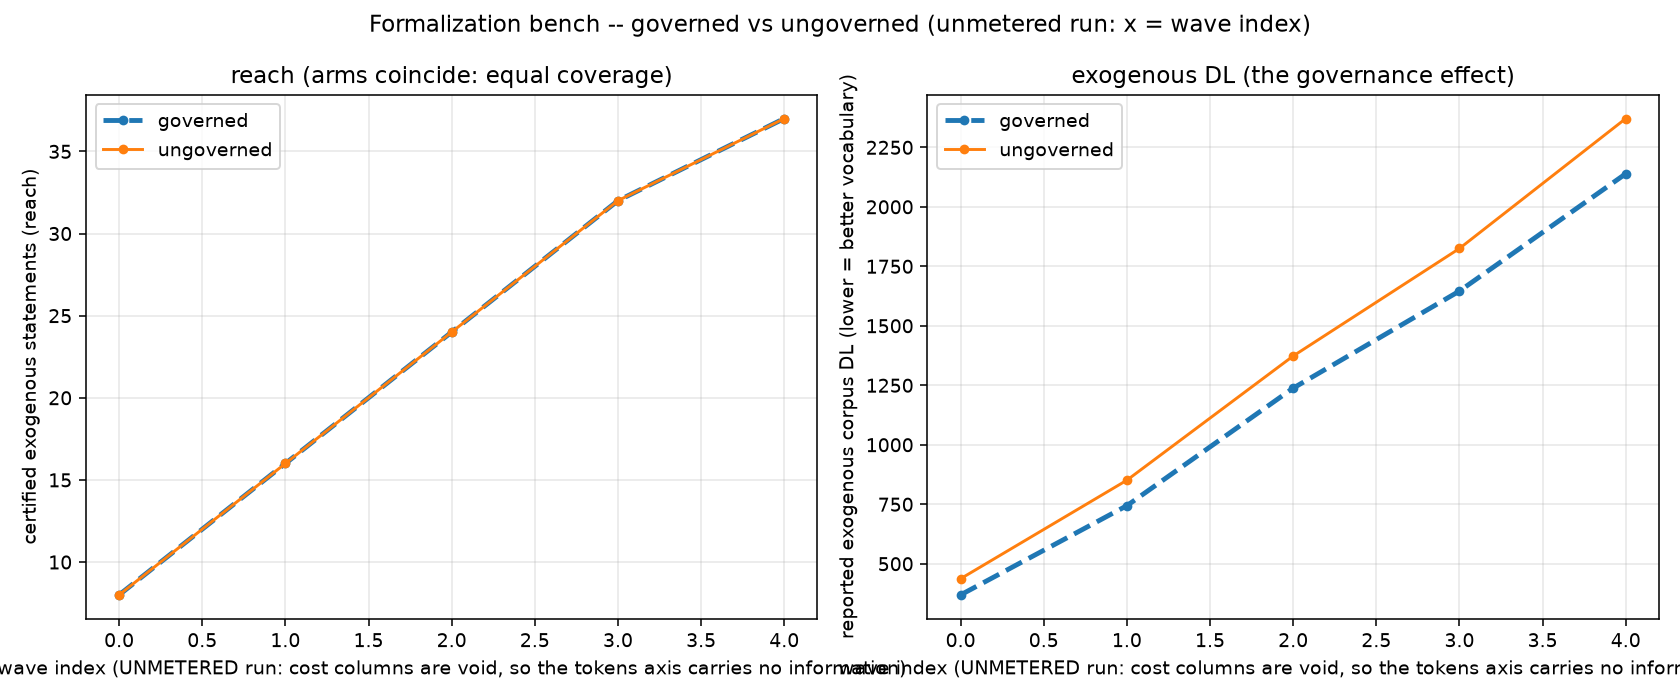
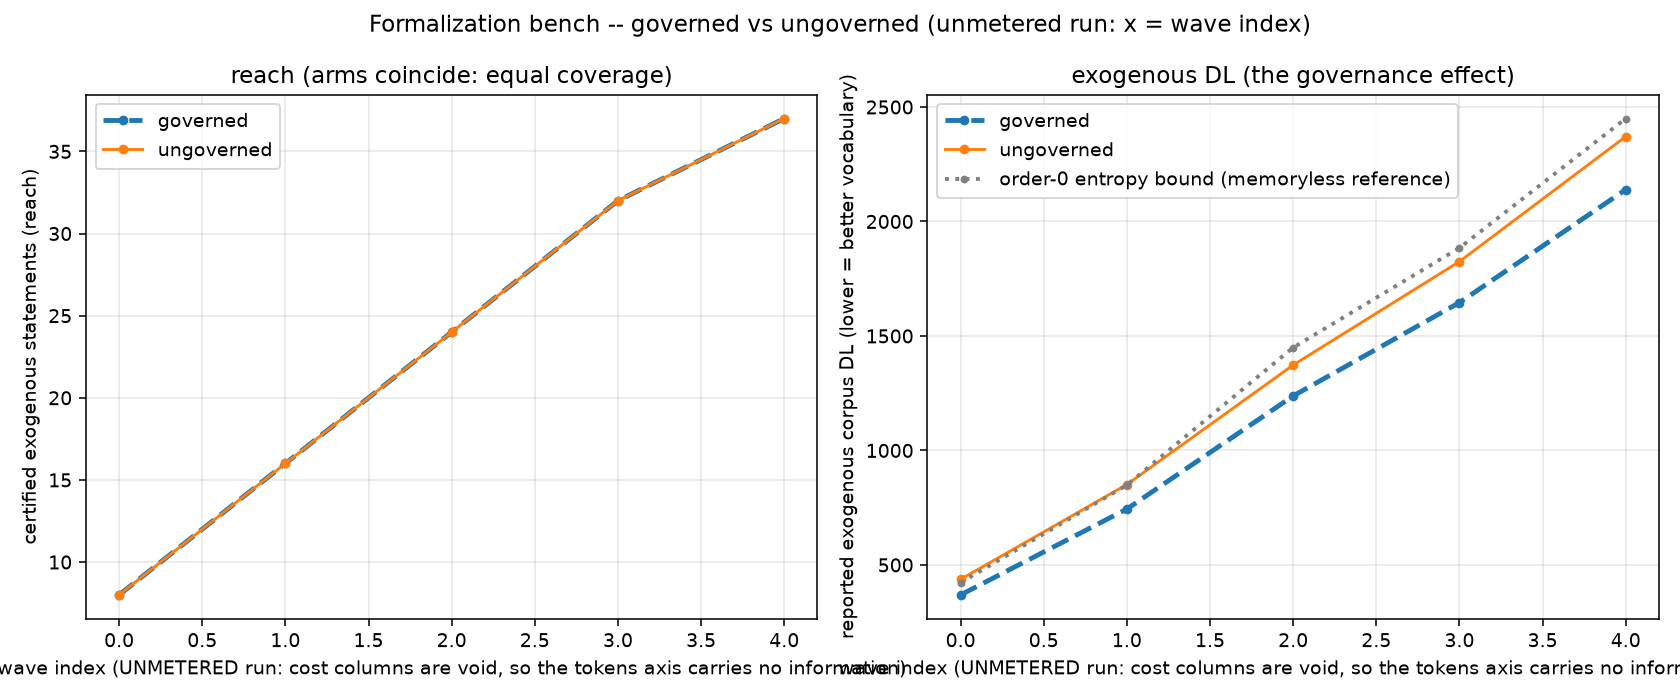
bench: order-0 entropy bound on the DL panel (reference, not a floor)
Adds the append-only CSV column order0_entropy_dl_est: the hindsight
memoryless entropy-coding bound for the same exogenous corpus prefix, in
DL units, reconciled by RATIO (naive macro-free DL x H_empirical/log2|A|
over the statement-structure token stream) -- never by mixing units.

The measurement came out the honest way around: BOTH arms already beat the
order-0 bound (governed 2139 < ungoverned 2371 < order-0 2450), because a
memoryless code cannot see the recurring multi-token windows the macro
vocabulary compresses. So the line is labeled a memoryless REFERENCE, not
a floor: order-0 entropy floors order-0 coders only. The true floor
(higher-order/Kolmogorov) is not computable; the computable ladder above
this reference is order-k entropies, and the plot exists to show where the
vocabulary sits on it. Never asserted (E5) -- plotted for orientation,
documented in the sidecar's authoring/honesty notes.

Claude-Session: https://claude.ai/code/session_01WmYkndEphJjdmG48HQ8N72

diff --git a/bench_formalize.py b/bench_formalize.py
@@ -136,6 +136,13 @@ CSV_COLUMNS = [
     "translation_cert_count", "per_use_cert_failures", "trivially_closed_count",
     "cost_per_certified_statement", "cost_per_certified_statement_inclusive",
     "lean_seconds_total", "smt_seconds",
+    # append-only extension: the hindsight ORDER-0 entropy-coding bound
+    # ESTIMATE for the same exogenous corpus prefix, in DL units (see
+    # _order0_entropy_dl_est).  NOT a floor for the macro coder: order-0
+    # entropy floors MEMORYLESS coders only, and the macro vocabulary exploits
+    # recurring windows an order-0 code cannot see -- the measured run BEATS
+    # this bound, which is the point of plotting it.  Never an assertion.
+    "order0_entropy_dl_est",
 ]
 
 # The four Lean-internal F5.2 tuple fields, DEFERRED to a Lean-toolchain run.
@@ -419,7 +426,70 @@ def _arm_row(arm, wave, exo_readings, table, cum_tin, cum_tout,
         "cost_per_certified_statement_inclusive": cps_incl,
         "lean_seconds_total": 0.0,    # Lean absent (recorded in sidecar)
         "smt_seconds": round(smt_seconds, 6),
+        "order0_entropy_dl_est": _order0_entropy_dl_est(exo_readings),
     }
+
+
+def _structure_tokens(reading):
+    """The statement-structure token stream a counting DL implicitly uniform-
+    codes: statement kinds/forces, pred operators, refs, literals, carriers,
+    binders -- walked deterministically."""
+    toks = []
+    def walk(pred):
+        if not isinstance(pred, dict):
+            return
+        if "op" in pred:
+            toks.append(("op", pred["op"]))
+            for a in pred.get("args", []):
+                walk(a)
+        elif "ref" in pred:
+            toks.append(("ref", pred["ref"]))
+        elif "lit" in pred:
+            toks.append(("lit", pred["lit"]))
+    for s in reading.get("statements", []):
+        lf = s.get("lf", {})
+        toks.append(("kind", lf.get("kind")))
+        toks.append(("force", s.get("force")))
+        if "carrier" in lf:
+            toks.append(("carrier", lf["carrier"]))
+        if "type" in lf:
+            toks.append(("type", lf["type"]))
+        if "binder" in lf:
+            toks.append(("binder", lf["binder"]))
+        walk(lf.get("pred"))
+    return toks
+
+
+def _order0_entropy_dl_est(exo_readings):
+    """A hindsight ESTIMATE of the ORDER-0 (memoryless) entropy-coding bound
+    for the given corpus prefix, in DL units.
+
+    The counting DL is (approximately) a UNIFORM code over the statement
+    structure; an optimal order-0 code over the same token stream would pay
+    the empirical entropy instead.  Units are reconciled by RATIO, never by
+    mixing: floor = naive_dl(prefix, empty table) * H_empirical / log2 |A| --
+    i.e. the macro-free counting cost scaled by the compression an order-0
+    entropy coder could still extract from this tokenization.  Hindsight
+    (frequencies from the prefix itself), order-0, structure-level: an
+    ESTIMATE of the flattest reachable curve, plotted for orientation and
+    never asserted (E5)."""
+    import math
+    from collections import Counter
+    from buildloop import mdl_macros
+    if not exo_readings:
+        return 0.0
+    toks = []
+    for r in exo_readings:
+        toks.extend(_structure_tokens(r))
+    if not toks:
+        return 0.0
+    freq = Counter(toks)
+    n = len(toks)
+    h_emp = -sum((c / n) * math.log2(c / n) for c in freq.values())
+    h_uniform = math.log2(len(freq)) if len(freq) > 1 else 1.0
+    ratio = (h_emp / h_uniform) if h_uniform else 1.0
+    naive = mdl_macros.corpus_dl(exo_readings, {})["total"]
+    return round(naive * ratio, 3)
 
 
 # ------------------------------------------------------------------- helpers
@@ -600,6 +670,19 @@ def _write_plot(rows, path):
             style.update(linestyle="--", linewidth=2.5)   # visible under overlap
         ax.plot(xs, [r["certified_exogenous_statements"] for r in rs], **style)
         ax2.plot(xs, [float(r["reported_exogenous_dl"]) for r in rs], **style)
+    # the hindsight order-0 entropy bound ESTIMATE (arm-independent; drawn
+    # from the governed rows' column).  A MEMORYLESS-coder reference, not a
+    # floor: the macro vocabulary legitimately beats it by exploiting
+    # recurrence.  Orientation, never an assertion.
+    floor_rows = sorted((r for r in arm_rows if r["arm"] == "governed"
+                         and r.get("order0_entropy_dl_est") not in (None, "")),
+                        key=lambda r: r["wave"])
+    if floor_rows:
+        xs = [((r["cumulative_ktokens_in"] + r["cumulative_ktokens_out"])
+               if metered else r["wave"]) for r in floor_rows]
+        ax2.plot(xs, [float(r["order0_entropy_dl_est"]) for r in floor_rows],
+                 color="gray", linestyle=":", linewidth=2, marker=".",
+                 label="order-0 entropy bound (memoryless reference)")
     if metered:
         xlabel = "cumulative cost (LLM kilotokens in+out; seconds NOT summed)"
         suffix = "(tokens-only x-axis)"